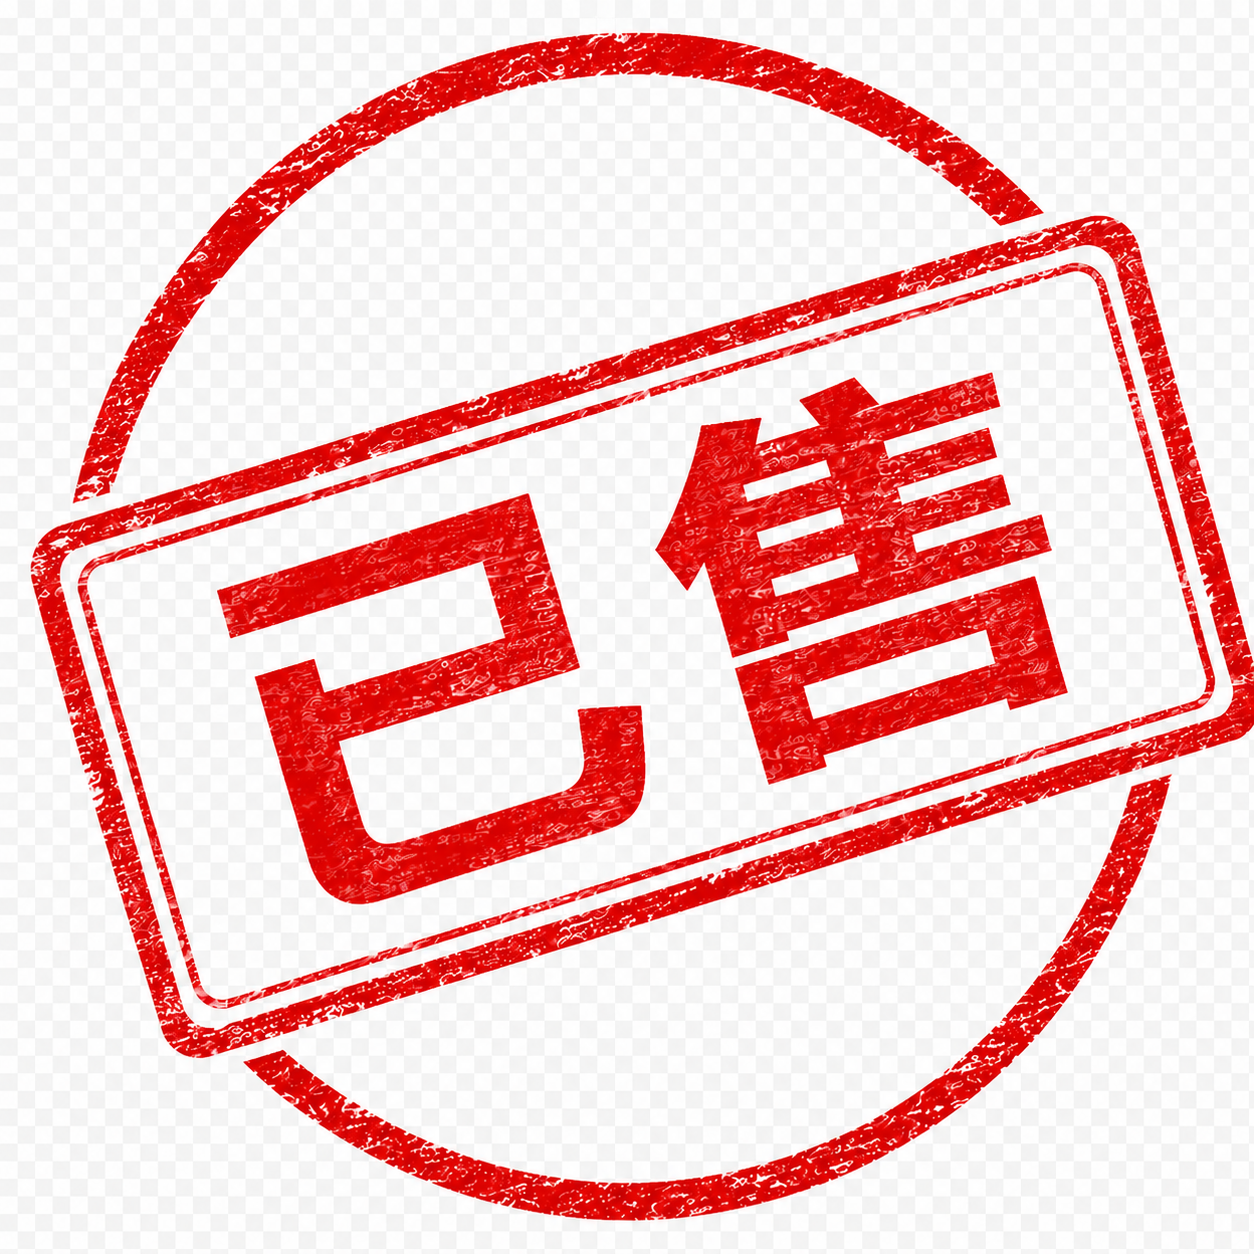
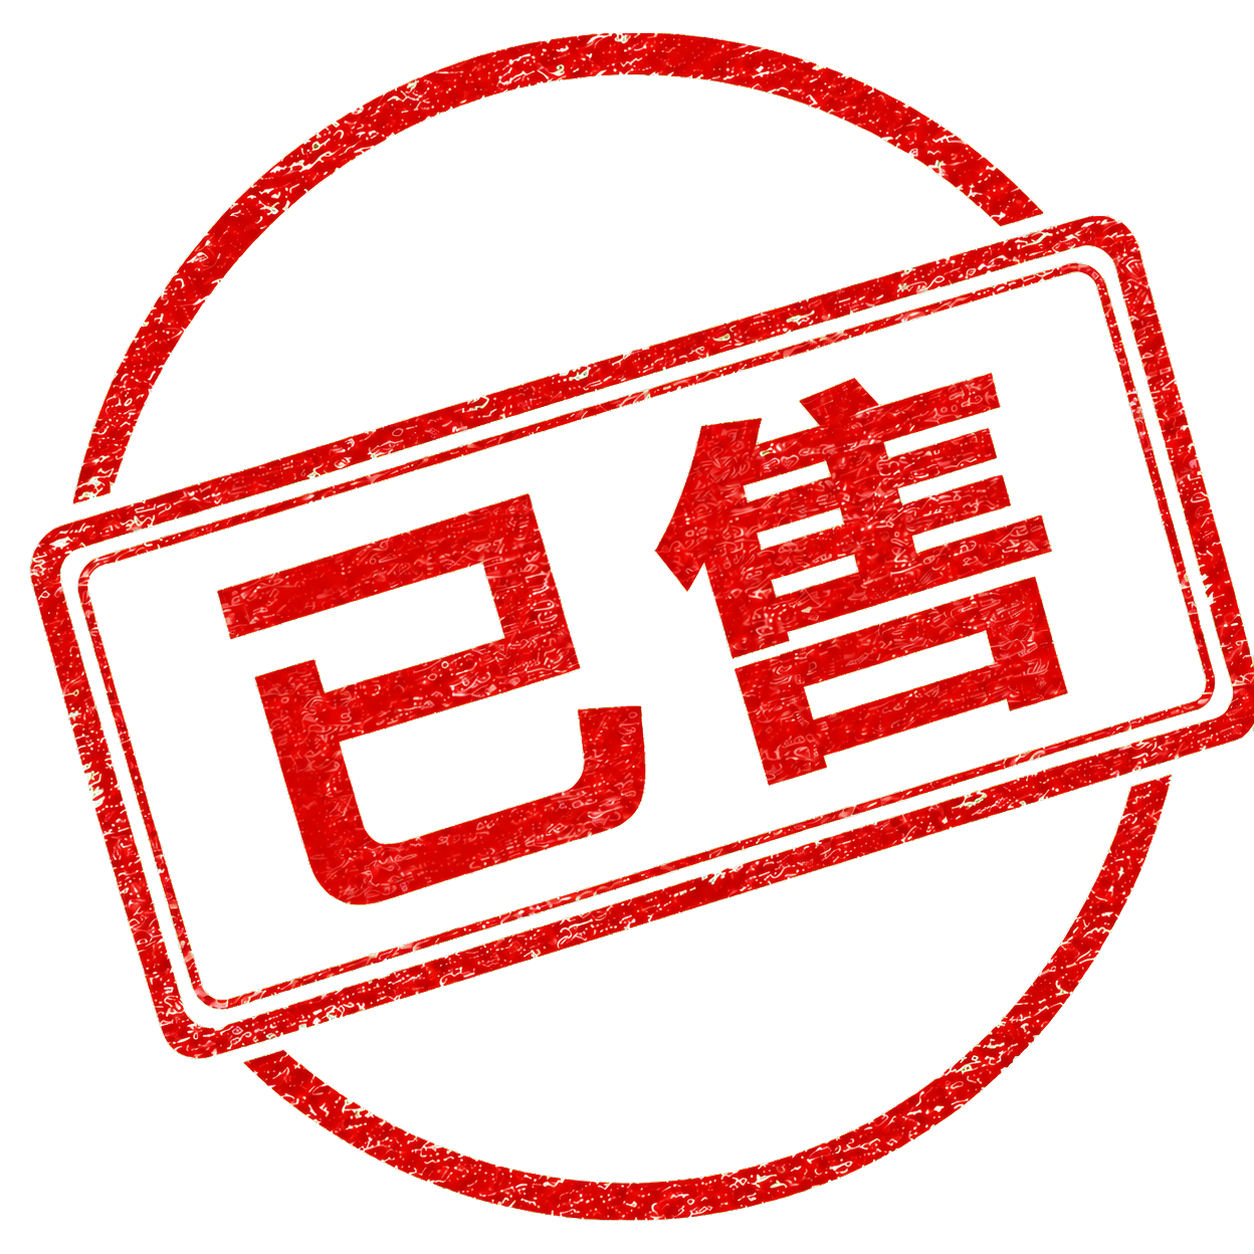
feat: add transparent sold watermark presets

diff --git a/app/page.tsx b/app/page.tsx
@@ -56,6 +56,21 @@ const watermarkPresets: WatermarkPreset[] = [
     src: "/watermarks/stamp-red.png",
     fileName: "红色印章.png",
   },
+  {
+    name: "红色圆章｜已售",
+    src: "/watermarks/sold-red.png",
+    fileName: "红色圆章-已售.png",
+  },
+  {
+    name: "蓝色标签｜已售",
+    src: "/watermarks/sold-blue.png",
+    fileName: "蓝色标签-已售.png",
+  },
+  {
+    name: "金色手绘｜已售",
+    src: "/watermarks/sold-gold.png",
+    fileName: "金色手绘-已售.png",
+  },
 ];
 
 function formatBytes(bytes: number) {
